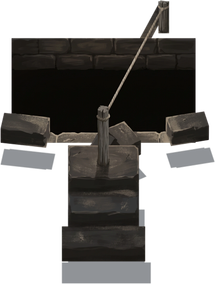
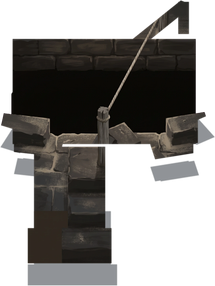
fix: the drop's mouth goes back to the depth that paints
Deepening it spanned the run in the mesh and lost the projection in the
paint: three rolls came back in one-point perspective where the shallow
mouth had painted flat every time.

Claude-Session: https://claude.ai/code/session_01TAqDBDsDMGCN1rpWgHWmPJ

Changed region(s): [[0.0, 0.0, 1.0, 1.0], [0.5581, 0.2254, 0.614, 0.3099], [0.614, 0.1972, 0.6419, 0.2254]]

diff --git a/src/app/SiteMap/mapScale.ts b/src/app/SiteMap/mapScale.ts
@@ -96,16 +96,18 @@ export const DROP_H = 81
 /** A vertical drop's scale is set by the corridor edges MARKED ON ITS MASTER, not by the pit's own ink: the
  * crack is torn wider than the passage it crosses, so the painted black overhangs the corridor the way
  * dropEast's spoil stands proud above its own. North's marks are 861 master pixels apart, which over a
- * 56-unit corridor is 15.375 pixels to a unit, and the tile measures 215 x 284 pixels at that scale.
+ * 56-unit corridor is 15.375 pixels to a unit, and the tile measures 215 x 286 pixels at that scale.
  *
  * South is marked the same way, 1186 pixels over 56, giving 21.18 and a 156 x 187 tile.
  *
- * NOTHING IS STRETCHED TO THE RUN. A vertical run is 224 units down the page (ROW_PITCH x 2 + CELL) against
- * a horizontal one's 196, and each tile is drawn at the size it was painted: dropEast covers 87% of its run,
- * north 63%, south 42%. South is the short one because its painting spends less of the canvas on the pit,
- * not because it is scaled differently, so what would lengthen it is a repaint and not a number here. */
+ * NEITHER COVERS ITS RUN, AND THE ART IS NOT THE PLACE TO FIX IT. A vertical run is 224 units down the page
+ * (ROW_PITCH x 2 + CELL) against a horizontal one's 196; dropEast covers 87% of its run, north 64%, south
+ * 42%. Lengthening the mouth to close that was tried and reverted — it works in the mesh and loses the
+ * projection in the paint (docs/instructions/repaint-queue.md, the convergence rule). What is left over is
+ * ordinary paving drawn inside a gap the player cannot cross, and that belongs to whatever draws the
+ * obstacle's cells, not to a number here. */
 export const DROP_NORTH_W = 107.5
-export const DROP_NORTH_H = 142
+export const DROP_NORTH_H = 143
 export const DROP_SOUTH_W = 78
 export const DROP_SOUTH_H = 93.5
 

diff --git a/scripts/renderProp.py b/scripts/renderProp.py
@@ -1692,22 +1692,25 @@ def prim_pit():
     # was not at 0.94 against spoil reaching 0.58 either side. Hence 1.04, with the spoil pulled in to
     # 0.85 of its spread.
     #
-    # DEPTH: along travel the rule is the same but the TARGET IS FORESHORTENED, and that is the whole of
-    # it. The obstacle is `ONE_WAY_RUN_CELLS` = 3 cells, which a vertical heading walks 224 units down
-    # the page (2 * ROW_PITCH 84 + CELL 56) against a 56-unit corridor. A mouth drawing much shorter than
-    # that leaves ordinary paving at each end of a gap the player cannot cross — 0.80 drew 42 units and
-    # did exactly that. But a mouth drawn the full 224 is WRONG IN THE OTHER DIRECTION: this projection
-    # puts depth into height at k, so a gap running away from the viewer must draw SHORTER than the same
-    # gap crossing him. Asking for the full 224 was asking depth to draw unforeshortened, and it came
-    # back a black field four times as long as it was wide — a wall, not a hole.
+    # DEPTH STAYS AT THE MOUTH'S OWN 0.80, AND DEEPENING IT WAS TRIED AND ABANDONED. The obstacle is
+    # `ONE_WAY_RUN_CELLS` = 3 cells, which a vertical heading walks 224 units down the page, and the
+    # first pair of tiles covered only 63% and 42% of that — ordinary paving left at each end of a gap
+    # the player cannot cross. The black band is k*d tall, so depth is the dial that lengthens it: 0.80
+    # draws 42 units, 4.0 draws 154, 5.9 draws 224.
     #
-    # So the target is k * 224 = 157, the run as this shear actually draws it, and the black band is k*d
-    # tall: d = 157 * w / (k * 56) = 4.16. Measured off the render rather than trusted to that line —
-    # the tile's extent includes spoil and posts beyond the mouth. `dropEast` keeps its 0.80: its gap
-    # spans in y, where the shear already gives it the whole cell and nothing is foreshortened away.
+    # IT IS NOT A DIAL THAT CAN BE TURNED, because the generator stops holding this projection. The
+    # shallow mouth paints correctly: the masters in `art/masters/props/expert` came back flat-sided and
+    # square to the frame. Every roll against a deepened one came back in one-point perspective — long
+    # sides converging, then the whole object rotated off-axis with a coping round the mouth — which is
+    # this file's own warning in `prop-pipeline.md` ("a generator refuses this projection, and the
+    # scaffold is the only thing that has ever made it obey") holding only while the scaffold is shallow
+    # enough to leave nothing to reinterpret. Three rolls, three failures, one variable.
+    #
+    # The paving the short tile leaves at the run's ends is a DRAWING problem and belongs in the map, not
+    # here: cells an obstacle covers should not draw walkable floor whether or not a sprite reaches them.
     spoil_x = 1.0
     if contents in ("dropNorth", "dropSouth"):
-        w, spoil_x, d = 1.04, 0.85, 4.16
+        w, spoil_x = 1.04, 0.85
     hv = k * d
     # The shaft: the far wall alone, exactly filling the drawn opening, and the only VOID part of any
     # primitive — everything else here is stone in the rank's own colour.

diff --git a/docs/instructions/repaint-queue.md b/docs/instructions/repaint-queue.md
@@ -23,13 +23,15 @@ and the scaffold is the only thing that has ever made it obey.
 A square return is also unimportable as it stands, whatever it looks like: the import scales the master
 into the slot, and a 1:1 master in a 2:3 slot is a third out.
 
-**EDGES THAT CONVERGE MEAN THE SAME THING — re-roll.** This set is drawn in an oblique shear with no
-vanishing point: parallel edges stay parallel, and depth is carried by a thing being drawn HIGHER, never
-smaller. A generator asked for something deep will reach for one-point perspective anyway, because that
-is what "seen from above, going down" means everywhere else. `dropNorth`'s first roll came back with the
-shaft's long sides tapering to a point — convincing, and unusable, because the floor tile it composites
-onto has no such taper and the two would disagree at every edge. Any prompt for something with real
-length or depth should say the sides are parallel outright rather than trust the scaffold to carry it.
+**EDGES THAT CONVERGE MEAN THE SAME THING — re-roll, and suspect the scaffold is too deep.** This set is
+drawn in an oblique shear with no vanishing point: parallel edges stay parallel, and depth is carried by
+a thing being drawn HIGHER, never smaller. The scaffold normally holds that on its own. It stops holding
+it once the object gets DEEP: the drop's mouth was lengthened from 0.80 to 4.16 to make a vertical gap
+span its run, and three rolls came back in one-point perspective — long sides tapering, then the whole
+object rotated off-axis with a coping built round the mouth — where the same prompt against the shallow
+mouth had painted flat and square every time. Saying "the sides are parallel, there is no vanishing
+point" in the prompt did not save the second roll. The depth was put back and the shortfall moved to
+the renderer instead. Length in an object is the thing this pipeline buys most dearly.
 
 **Which is why every prompt here now opens by naming its FRAME** — portrait two by three for a prop,
 landscape two by one for a wall item, "exactly as the reference", and do not re-compose it square. It is
@@ -2590,52 +2592,20 @@ so the hole shows depth rather than reading as a flat black rectangle, the spoil
 Queued at expert only: the develop journey's drop stands on an expert floor, which is the one rank a
 drop can actually be seen on today. The other four ranks stay unqueued until this one has landed.
 
-**The two vertical headings take a mouth that spans the RUN in depth as well as the passage in width.**
-It is one rule, `_launch_crossing`'s rule 2, applied on both axes. A drop walked up and down the page
-must have its gap span the passage in x, edge to edge of the sprite, or the paving left beside the black
-reads as a ledge to step round; the sprite is scaled to its own widest element, so the mouth has to BE
-that element, which it was not while the spoil reached further out than the crack did. Hence `w` 1.04
-against 0.94, with the spoil pulled in to 0.85 of its spread. And the same must hold ALONG travel: the
-obstacle is three cells (`ONE_WAY_RUN_CELLS`), which a vertical heading draws 224 units down the page
-(`2 * ROW_PITCH` 84 + `CELL` 56) against a 56-unit corridor. The first pair were drawn at depth 0.80,
-whose black band is `k*d` = 0.56 tall against 1.04 wide, 30 units to the corridor's 56: the imported tiles
-covered 63% (`dropNorth`) and 42% (`dropSouth`) of the run, leaving half a cell to a cell of ordinary
-paving at each end of a gap the player cannot cross. `dropEast` keeps its mouth: its gap spans in y,
-where the shear already gives it the whole cell, and it is painted.
+**The two vertical headings take a WIDER mouth — `w` 1.04 against 0.94 — and it is the full-span rule
+that buys it.** A drop walked up and down the page must have its
+gap span the passage in x, edge to edge of the sprite, or the paving left beside the black reads as a
+ledge to step round; the sprite is scaled to its own widest element, so the mouth has to BE that
+element, which it was not while the spoil reached further out than the crack did, so the spoil is pulled
+in to 0.85 of its spread as well. Measured on the composited tile, `dropSouth`'s black went from 72% of
+the cell's width to 87%, and `dropNorth`'s to the same. `dropEast` keeps the original mouth: its gap
+spans in y, where the shear already gives it the whole cell, and it is painted.
 
-**THE TARGET IS THE RUN FORESHORTENED, NOT THE RUN.** The first answer to the 63%/42% shortfall was to
-ask for the whole 224, which `d` = 5.94 delivers (the band is `k*d` tall, so `k*d / w * 56 = 224`). It
-came back a black field four times as long as it was wide, and it read as a wall rather than a hole —
-because asking depth to draw its full map length is asking this projection not to foreshorten. A gap
-running AWAY from the viewer must draw shorter than the same gap crossing him; north and south looking
-shorter than `dropEast` is the projection working, not a defect to correct.
-
-**So the depth is 4.16**, for a band of `k * 224` = 157 units at a 56-unit corridor — the run as this
-shear actually draws it. Measured off renders rather than trusted to the line, since the tile's extent
-includes spoil and posts beyond the mouth. For the record of what the dial does: 0.8 drew a band of 42
-and 58 units, 4.0 drew 154, 5.9 drew 224. The tile is about three times as long as it is wide, and that
-is the composition the two prompts below describe: neither a squarish fissure nor a trench.
-
-- **The rope.** A line across a mouth this long and 1.04 wide would draw near-vertical and read as a
-  post, so the posts moved to opposite sides of it: the X offset across the mouth went from 0.34 to 0.78
-  on `dropNorth` and 0.27 to 0.64 on `dropSouth`, which leans the line about ten and eight degrees off
-  vertical over its whole length. That is as much as a mouth 1.04 wide allows. It reads as a long cable
-  strung down the trench rather than as a post, but it is not the clear diagonal `dropEast` has.
-- **`dropSouth`'s near post** stands 0.30 in front of the near lip instead of 0.07, so it draws below
-  the band and clear of the spoil, which is what lets it sit at the far side of the mouth.
-- **The near rim.** The launch block still stands `(h + margin) / k` in front of the near lip; the figure
-  does not depend on `d`, and the render shows the same two-pixel gap between its top and the band. The
-  only things on the lip line are the spoil at the corners (21% of its width in total on both tiles,
-  against 30% at depth 0.80) and the rope's thin crossing, checked on the object-only render by counting
-  non-black columns two pixels above the lip.
-- **Spoil** is turned about its own centre in these two headings. `tilt` turns about the world origin,
-  and a near lip three units from it flung the sideways blocks two and a half units off the tile.
-- **`--sun=0.025`** on both scaffold lines. `--sun` is in the object's normalised units, one unit being
-  its whole height, and the deep shaft wall makes these two objects 4.6 times taller than the other
-  props, so the default 0.12 detached every footprint from the thing that cast it.
-- **The previews are 2:3 like every other**, so the trench stands as a narrow column in the middle of the
-  frame with magenta to either side. That is deliberate: the importer scales by `--tight`, measured from
-  the corridor marked on the master, and not by the canvas.
+The depth stays at 0.80. It was shallowed to 0.60 for a while to get a sprite under the 84-row cap, and
+nothing was ever near that cap: the number saying otherwise was `renderProp.py`'s own `lands at` line,
+which added the whole height to the whole depth as though the tallest part were also the furthest back.
+Measured off the sheared mesh these tiles draw at aspect 0.6 to 1.3 against a limit of 1.5. The line has
+been fixed and carries the story in a comment.
 
 **`dropNorth`'s flight is climbed FRONTALLY**, away from the viewer, where `dropEast`'s is crossed from
 the side. That is the honest orientation for a heading whose player climbs and then travels into the
@@ -2693,38 +2663,19 @@ A wall-less product shot of a single object, painted in flat matte gouache, no b
 
 Portrait, two units wide by three tall, exactly as the reference. Do not re-compose it into a square. Paint over the reference image itself.
 
-The object: a long TRENCH torn down the length of a passage floor, seen from above — a gap three
-corridors long and one corridor wide, drawn running away from you so its length is foreshortened — the
-dark shape is a tall slot about three times as long as it is wide, standing upright in the middle of the
-frame with bare paving to either side. Keep it that
-slender; do not widen it into a pit. ITS TWO LONG SIDES ARE PARALLEL — the slot is exactly as wide at the
-far end as at the near one, and its corners are a parallelogram, not a trapezium. There is no vanishing
-point anywhere in this picture and nothing narrows with distance: this is an oblique view, and depth is
-carried by things being drawn HIGHER up the frame, never by them being drawn smaller or converging. A
-slot whose sides lean toward each other is wrong however convincing it looks. The dark quadrilateral is the OPENING — a hole in the floor, not a
-wall, not a doorway and not a niche, and nothing stands inside it that a person could stand on. THE WHOLE
-DARK FIELD IS THE SHAFT'S OWN WALL, seen face on and falling away from you: its top edge is the far rim
-where the lamp still reaches, and every inch further DOWN the picture is further DOWN the shaft. Paint it
-as that wall. Courses of rough CUT STONE, the shaft's lining, run across it from the far rim downward,
-each course darker than the one above as the light gives out, until a third of the way down they are lost
-and the rest is black — a black read as depth below stonework, not as a flat panel. No ledge, no step and
-no floor anywhere in it, and nothing stands on any course. THE OPENING'S LOWER RIM — its edge nearest
-the viewer — runs unbroken from one side of the crack to the other: nothing stands in front of it,
-nothing covers it, and it is the line that says this is a hole in a floor and not a recess in a wall.
-THE HEIGHT DIFFERENCE BETWEEN THE TWO ENDS IS THE WHOLE POINT OF THE PICTURE, and the steps are what
-explain it. IN FRONT of the opening, at its NEAR end, on the paving between the slot and the viewer, a
-short flight of two STEPS climbs onto a low stone BLOCK at the left, and a TALL timber POST stands on
-that block — a man's height, the tallest thing here, head and shoulders above everything else, and it is
-raised because this is the end you launch FROM. At the FAR end of the opening, furthest from the viewer
-and at the right, a second timber POST stands on bare paving with nothing built under it, BARELY KNEE
-HIGH — a stump beside the tall one, because that is where you land. Do not make the two posts the same
-height, do not put the taller one at the far end, and do not leave the steps out: without the flight and
-the block the near post has nothing raising it and the picture says nothing about which way the crossing
-runs. A taut ROPE runs from the head of the tall post the whole length of the slot, leaning
-a little to the right, to the head of the short one; it is a thin straight line, not a bridge, and it
-touches nothing on the way. The loose blocks scattered at the opening's near corners are broken basalt,
-shaken free where the floor gave way. There is no rim, no coping and no frame around the opening: the
-slot meets bare paving on every side.
+The object: a FISSURE torn across a passage floor, seen from above. The dark quadrilateral is the
+OPENING — a hole in the floor, not a wall, not a doorway and not a niche, and nothing stands inside it
+that a person could stand on. Just under its far rim two courses of rough CUT STONE show, the shaft's
+own lining, taking what little light reaches down; below those courses the shaft goes black and stays
+black, and nothing is drawn down there at all. THE OPENING'S LOWER RIM — its edge nearest the viewer —
+runs unbroken from one side of the crack to the other: nothing stands in front of it, nothing covers it,
+and it is the line that says this is a hole in a floor and not a recess in a wall. IN FRONT of the
+opening, on the paving between the crack and the viewer, a short flight of two STEPS climbs onto a low
+stone BLOCK, and a tall timber POST stands on that block. At the FAR edge of the
+opening, furthest from the viewer, a second timber POST stands on bare paving, barely knee high. A taut
+ROPE runs from the head of the tall post, across the opening, to the head of the short one. The loose
+blocks scattered at the opening's edge are broken basalt, shaken free where the floor gave way. There is
+no rim, no coping and no frame around the opening: the crack meets bare paving on every side.
 
 Basalt worn dark and faintly polished where feet have crossed near it, with a thin crust of pale natron
 dust settled into the crack's edges and over the fallen blocks. The posts are old timber, split and
@@ -2746,7 +2697,7 @@ No ground plane and no background: the object stands alone on the magenta. The p
 Then, once the return is in `~/Downloads`:
 
 ```sh
-scaffold pit --contents=dropNorth --sun=0.025 --colour=#a7b2be --floor=#8d98a5 --colour-deep=#5f6b77
+scaffold pit --contents=dropNorth --colour=#a7b2be --floor=#8d98a5 --colour-deep=#5f6b77
 yarn import-tile art/masters/props/expert/dropNorth.webp --tier=expert --name=dropNorth --slot=prop \
   --filter=smooth --mask="$OBJ" --seat="$SHADOW" --brightness=0.85
 ```
@@ -2763,38 +2714,19 @@ A wall-less product shot of a single object, painted in flat matte gouache, no b
 
 Portrait, two units wide by three tall, exactly as the reference. Do not re-compose it into a square. Paint over the reference image itself.
 
-The object: a long TRENCH torn down the length of a passage floor, seen from above — a gap three
-corridors long and one corridor wide, drawn running away from you so its length is foreshortened — the
-dark shape is a tall slot about three times as long as it is wide, standing upright in the middle of the
-frame with bare paving to either side. Keep it that
-slender; do not widen it into a pit. ITS TWO LONG SIDES ARE PARALLEL — the slot is exactly as wide at the
-far end as at the near one, and its corners are a parallelogram, not a trapezium. There is no vanishing
-point anywhere in this picture and nothing narrows with distance: this is an oblique view, and depth is
-carried by things being drawn HIGHER up the frame, never by them being drawn smaller or converging. A
-slot whose sides lean toward each other is wrong however convincing it looks. The dark quadrilateral is the OPENING — a hole in the floor, not a
-wall, not a doorway and not a niche, and nothing stands inside it that a person could stand on. THE WHOLE
-DARK FIELD IS THE SHAFT'S OWN WALL, seen face on and falling away from you: its top edge is the far rim
-where the lamp still reaches, and every inch further DOWN the picture is further DOWN the shaft. Paint it
-as that wall. Courses of rough CUT STONE, the shaft's lining, run across it from the far rim downward,
-each course darker than the one above as the light gives out, until a third of the way down they are lost
-and the rest is black — a black read as depth below stonework, not as a flat panel. No ledge, no step and
-no floor anywhere in it, and nothing stands on any course. THE OPENING'S LOWER RIM — its edge nearest
-the viewer — runs unbroken from one side of the crack to the other: nothing stands in front of it,
-nothing covers it, and it is the line that says this is a hole in a floor and not a recess in a wall.
-THE HEIGHT DIFFERENCE BETWEEN THE TWO ENDS IS THE WHOLE POINT OF THE PICTURE, and the steps are what
-explain it. AT THE FAR END of the opening, furthest from the viewer, a short flight of two STEPS climbs
-onto a low stone BLOCK just inside the rim at the left, and a TALL timber POST stands on that block — a
-man's height, the tallest thing here, head and shoulders above everything else, and it is raised because
-this is the end you launch FROM. At the end NEAREST the viewer, a little in front of the lower rim and at
-the right, a second timber POST stands on bare paving with nothing built under it, BARELY KNEE HIGH — a
-stump beside the tall one, because that is where you land. Do not make the two posts the same height, do
-not put the taller one at the near end, and do not leave the steps out: without the flight and the block
-the far post has nothing raising it and the picture says nothing about which way the crossing runs.
-A taut ROPE runs from the head of the tall post the whole length of the slot and downhill, leaning a
-little to the right, to the head of the short one; it is a thin straight line, not a bridge, and it
-touches nothing on the way. The loose blocks scattered at the opening's near corners are broken basalt,
-shaken free where the floor gave way. There is no rim, no coping and no frame around the opening: the
-slot meets bare paving on every side.
+The object: a FISSURE torn across a passage floor, seen from above. The dark quadrilateral is the
+OPENING — a hole in the floor, not a wall, not a doorway and not a niche, and nothing stands inside it
+that a person could stand on. Just under its far rim two courses of rough CUT STONE show, the shaft's
+own lining, taking what little light reaches down; below those courses the shaft goes black and stays
+black, and nothing is drawn down there at all. THE OPENING'S LOWER RIM — its edge nearest the viewer —
+runs unbroken from one side of the crack to the other: nothing stands in front of it, nothing covers it,
+and it is the line that says this is a hole in a floor and not a recess in a wall. At the FAR edge of the
+opening, furthest from the viewer, a short flight of two STEPS climbs onto a low stone BLOCK set against
+the rim, and a tall timber POST stands on that block. At the edge NEAREST the viewer a second timber POST stands on bare paving, barely
+knee high. A taut ROPE runs from the head of the tall post, across the opening and downhill, to the head
+of the short one. The loose blocks scattered at the opening's edge are broken basalt, shaken free where
+the floor gave way. There is no rim, no coping and no frame around the opening: the crack meets bare
+paving on every side.
 
 Basalt worn dark and faintly polished where feet have crossed near it, with a thin crust of pale natron
 dust settled into the crack's edges and over the fallen blocks. The posts are old timber, split and
@@ -2816,7 +2748,7 @@ No ground plane and no background: the object stands alone on the magenta. The p
 Then, once the return is in `~/Downloads`:
 
 ```sh
-scaffold pit --contents=dropSouth --sun=0.025 --colour=#a7b2be --floor=#8d98a5 --colour-deep=#5f6b77
+scaffold pit --contents=dropSouth --colour=#a7b2be --floor=#8d98a5 --colour-deep=#5f6b77
 yarn import-tile art/masters/props/expert/dropSouth.webp --tier=expert --name=dropSouth --slot=prop \
   --filter=smooth --mask="$OBJ" --seat="$SHADOW" --brightness=0.85
 ```
